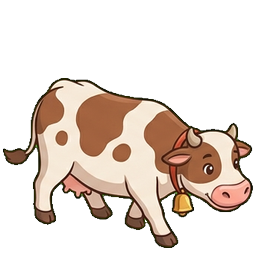
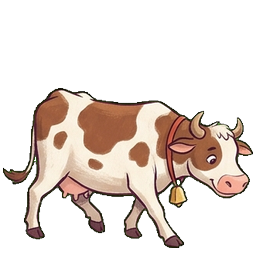
art: yeni sanat yonu ile yenilenen gorseller

Changed region(s): [[0.0, 0.2812, 1.0, 0.9688]]

diff --git a/sw.js b/sw.js
@@ -1,5 +1,5 @@
 // Çevrimdışı çalışma: kod ve sayfa önce ağdan (güncel sürüm), görseller önce önbellekten.
-const CACHE = 'hexling-v172';
+const CACHE = 'hexling-v173';
 const CORE = ['index.html', 'manifest.webmanifest', 'dist/main.js', 'dist/minis.js', 'dist/game.js', 'dist/data.js', 'dist/audio.js', 'dist/settings.js', 'dist/i18n.js', 'dist/scenery.js', 'dist/version.js', 'dist/billing.js', 'dist/ads.js', 'dist/fight.js', 'dist/hof.js', 'dist/house.js', 'dist/meta.js', 'dist/quests.js', 'dist/story.js', 'dist/tiger.js', 'dist/notify.js', 'dist/mine.js', 'dist/mine3d.js', 'vendor/three.min.js', 'assets/manifest.json', 'assets/title_bg.jpg', 'assets/arena_bg.jpg', 'icons/icon-192.png'];
 
 self.addEventListener('install', (e) => {
